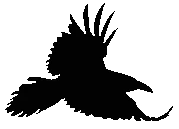
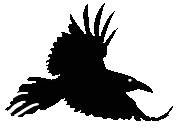
worked

diff --git a/binary.py b/binary.py
@@ -9,7 +9,7 @@ binary_pos = -1
 
 REDUCTION_FACTOR = 0.8
 
-img = PIL.Image.open("crow.png")
+img = PIL.Image.open("crow2.png")
 
 img = img.resize((img.width, int(img.height/2)))
 img.thumbnail((
@@ -21,7 +21,7 @@ output = []
 
 def get_output(pixel):
     global binary_pos
-    if pixel[3] != 0:
+    if pixel[3] >= 125:
         binary_pos += 1
         if binary_pos >= len(binary_text):
             binary_pos = 0
